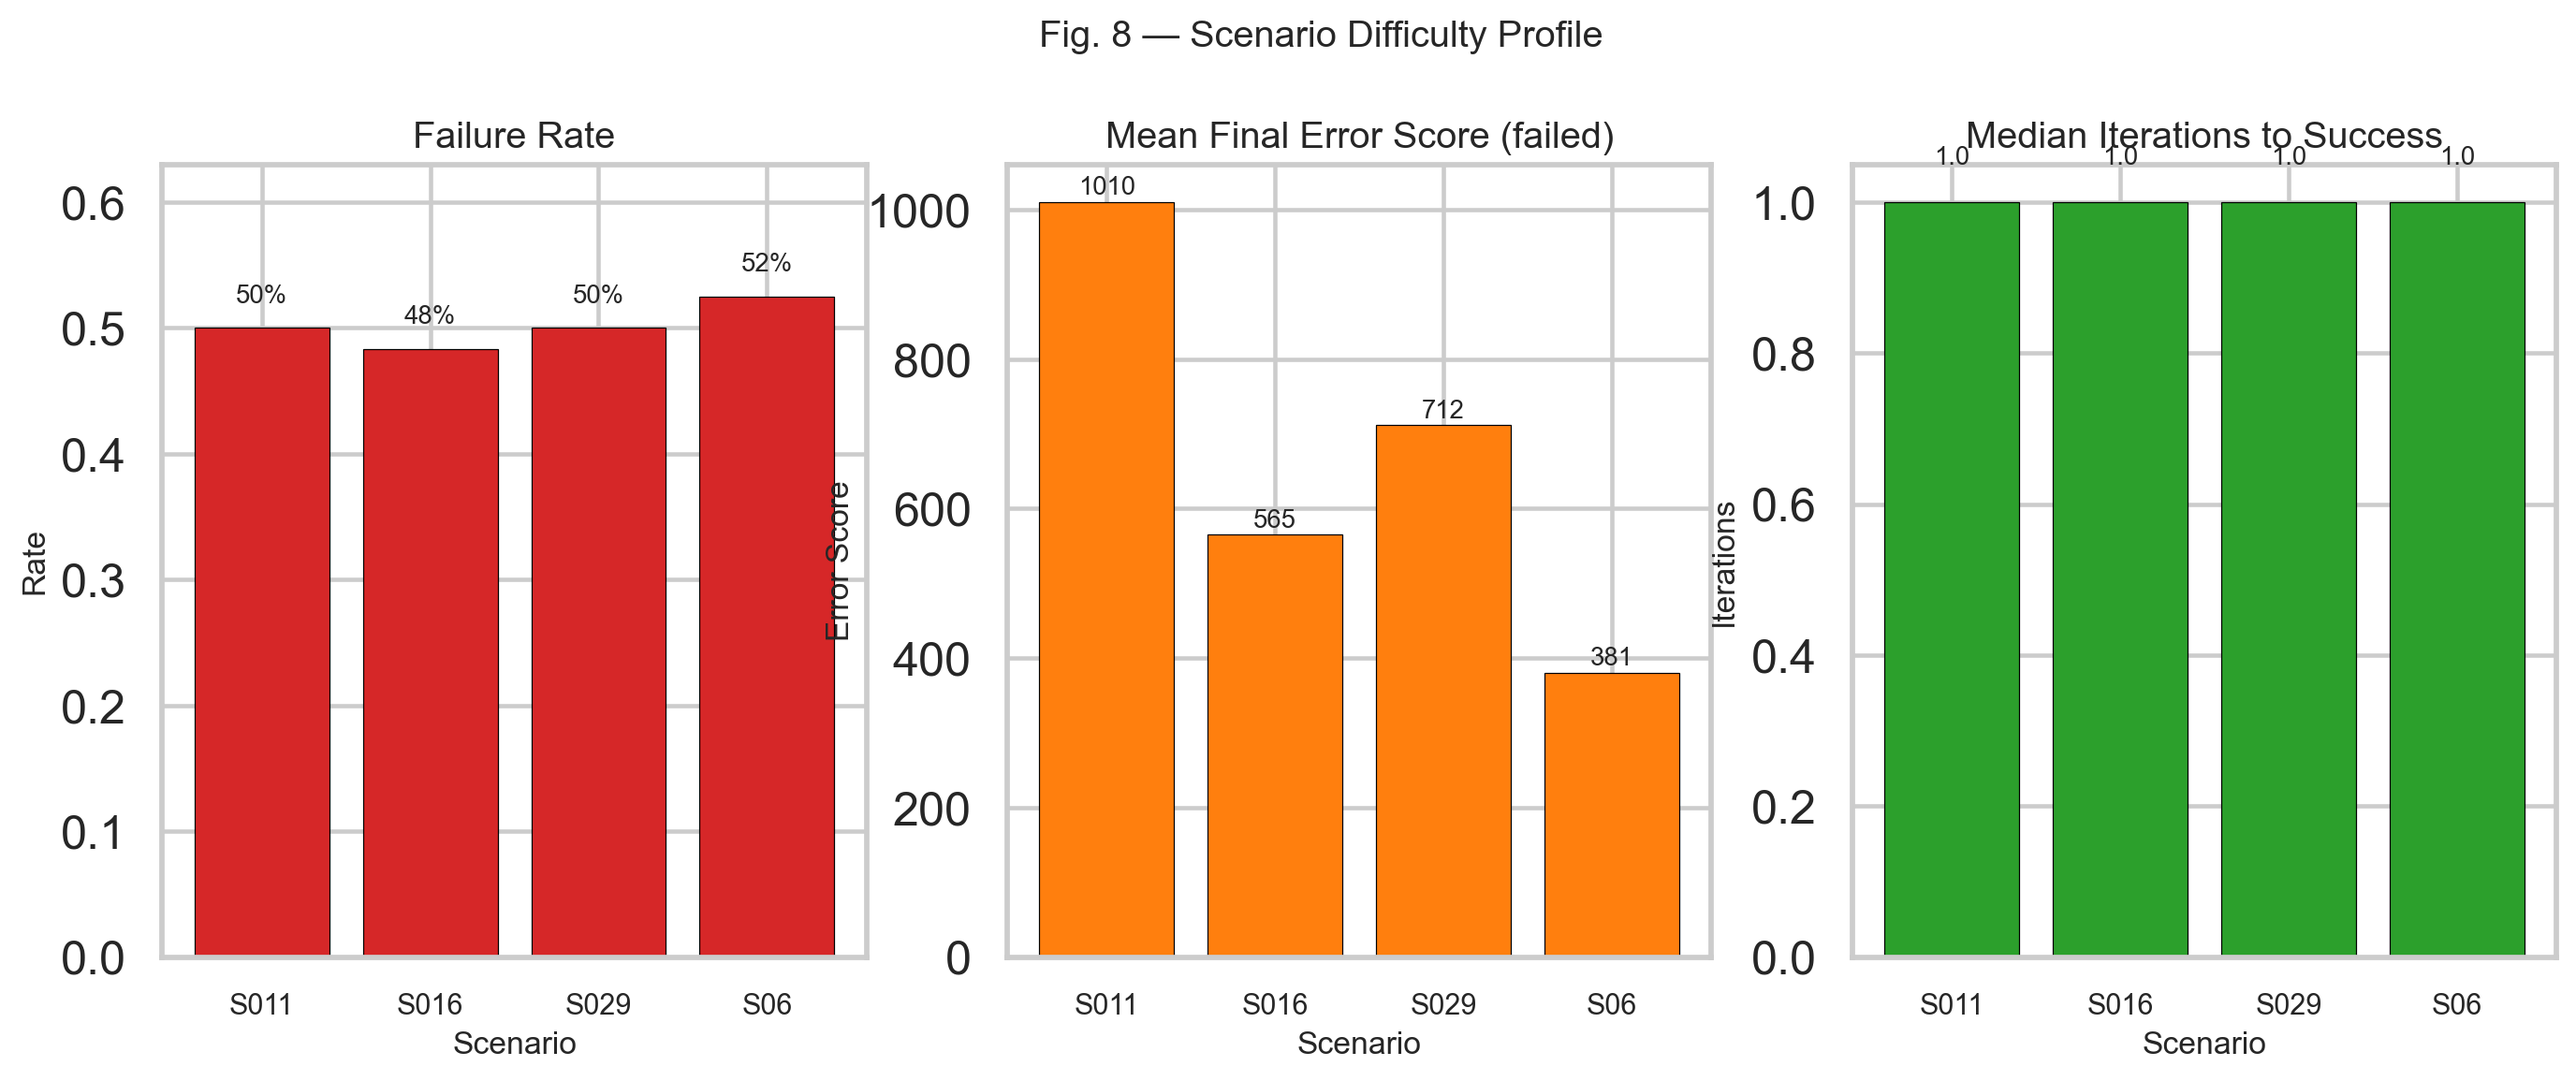
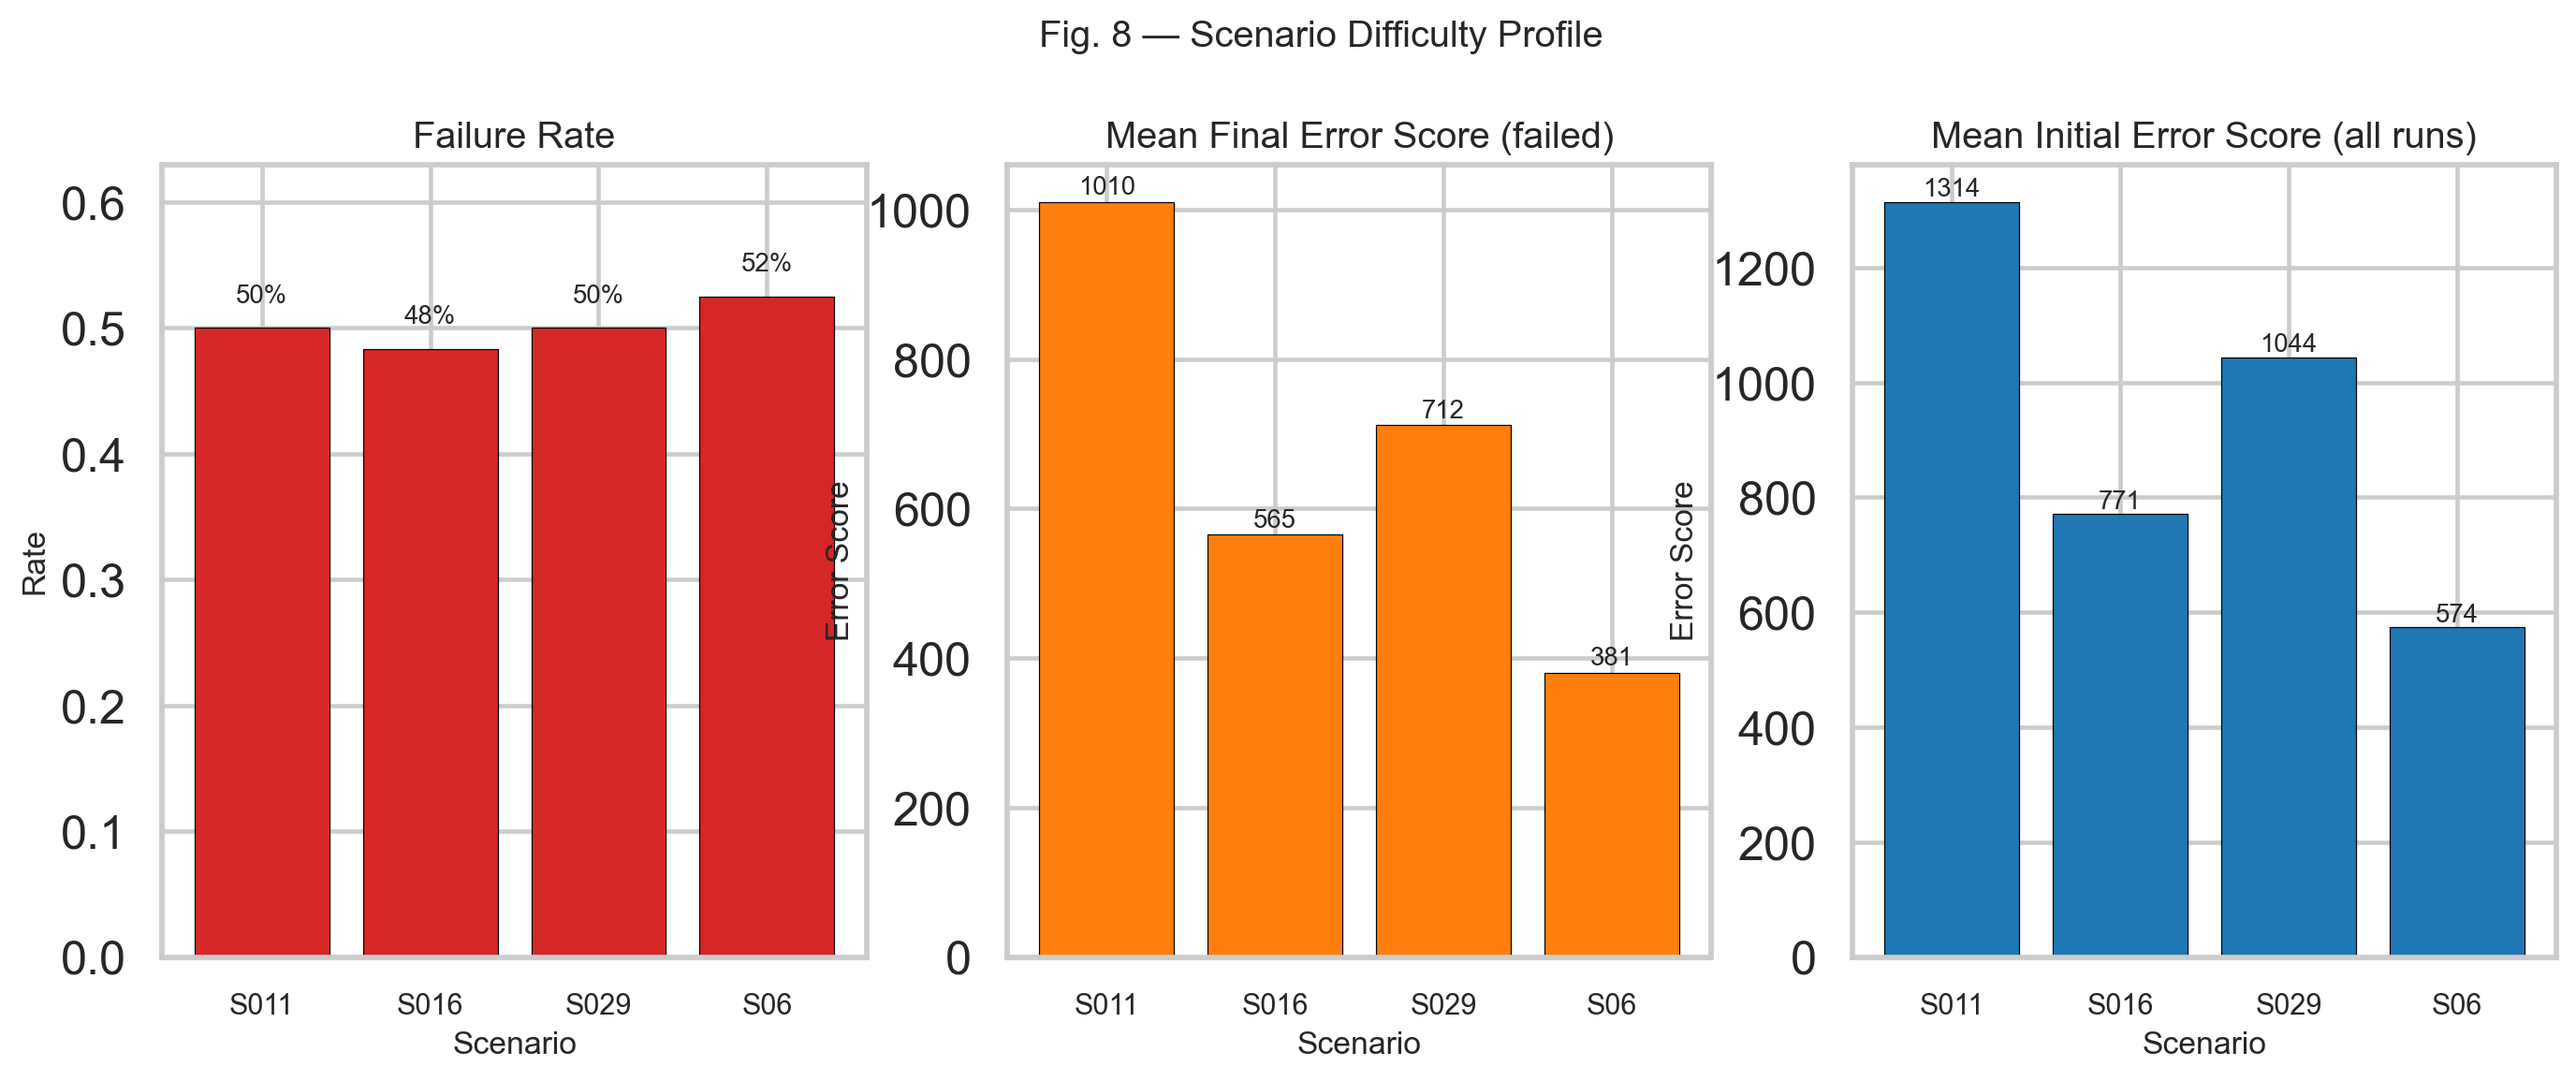
enh: iterations to success box plot

Changed region(s): [[0.625, 0.0935, 1.0, 0.9039]]

diff --git a/Utils/render_figures.py b/Utils/render_figures.py
@@ -404,35 +404,74 @@ def fig04_prompt_scenario_heatmap(run_df: pd.DataFrame, out_dir: Path):
 
 
 # ---------------------------------------------------------------------------
-# Figure 5 – Iteration-to-Success ECDF
+# Figure 5 – Iterations-to-Success (Box + Strip)
 # ---------------------------------------------------------------------------
 
 
-def fig05_ecdf_iterations(run_df: pd.DataFrame, out_dir: Path):
+def fig05_iterations_box_strip(run_df: pd.DataFrame, out_dir: Path):
+    """Box-plot of first-success iteration per config, overlaid with
+    individual data points (strip / swarm).  Median is marked with a
+    line; the annotation shows n_success / n_total.
+    """
     col = "derived_first_success_iteration"
     if col not in run_df.columns:
         return
 
+    cfgs = sorted(run_df["config_label"].dropna().unique(), key=_csort)
+    # Only include Pro-model configs (C5–C8) — Flash configs have too few
+    # successes for a meaningful iteration distribution.
+    cfgs = [c for c in cfgs if c in ("C5", "C6", "C7", "C8")]
+    succ = run_df[run_df["success_bool"]].copy()
+    if succ.empty:
+        return
+
     fig, ax = plt.subplots(figsize=(10, 5))
-    for cfg in sorted(run_df["config_label"].dropna().unique(), key=_csort):
-        sub = run_df[(run_df["config_label"] == cfg) & run_df["success_bool"]]
-        s = sub[col].dropna().sort_values()
+
+    # Collect data & colours per config
+    data, colours, labels = [], [], []
+    for cfg in cfgs:
+        s = succ.loc[succ["config_label"] == cfg, col].dropna()
         total = int((run_df["config_label"] == cfg).sum())
         if s.empty:
             continue
-        cdf = np.arange(1, len(s) + 1) / len(s)
-        ax.step(
-            s.values, cdf, where="post",
-            label=f"{cfg} ({len(s)}/{total})",
-            color=_PAL.get(cfg), linewidth=1.8,
+        data.append(s.values)
+        colours.append(_PAL.get(cfg, "#888888"))
+        labels.append(f"{cfg}\n({len(s)}/{total})")
+
+    positions = np.arange(len(data))
+
+    # Box-plots (no outlier markers — the strip shows them)
+    bp = ax.boxplot(
+        data, positions=positions, widths=0.45,
+        patch_artist=True, showfliers=False,
+        medianprops=dict(color="black", linewidth=2),
+        whiskerprops=dict(linewidth=1.2),
+        capprops=dict(linewidth=1.2),
+    )
+    for patch, c in zip(bp["boxes"], colours):
+        patch.set_facecolor(c)
+        patch.set_alpha(0.45)
+        patch.set_edgecolor("black")
+        patch.set_linewidth(0.8)
+
+    # Strip (jittered dots)
+    rng = np.random.default_rng(42)
+    for i, (vals, c) in enumerate(zip(data, colours)):
+        jitter = rng.uniform(-0.12, 0.12, size=len(vals))
+        ax.scatter(
+            positions[i] + jitter, vals,
+            color=c, edgecolors="black", linewidths=0.4,
+            s=30, alpha=0.75, zorder=3,
         )
 
-    ax.set_xlabel("Iteration of First Success")
-    ax.set_ylabel("Cumulative Probability")
-    ax.set_ylim(0, 1.05)
-    ax.set_title("Fig. 5 \u2014 Iteration-to-Success ECDF")
-    ax.legend(title="Config (succ/total)", fontsize=8, title_fontsize=9)
-    _save(fig, out_dir, "fig05_ecdf_iterations")
+    ax.set_xticks(positions)
+    ax.set_xticklabels(labels, fontsize=9)
+    ax.set_ylabel("Iteration of First Success")
+    ax.set_xlabel("Configuration (success / total)")
+    ax.set_title("Fig. 5 \u2014 Iterations to Success (Pro-model Configs)")
+    ax.yaxis.set_major_locator(plt.MaxNLocator(integer=True))
+    ax.set_ylim(0.5, run_df[col].max() + 0.5 if run_df[col].notna().any() else 10.5)
+    _save(fig, out_dir, "fig05_iterations_box_strip")
 
 
 # ---------------------------------------------------------------------------
@@ -535,16 +574,13 @@ def fig08_scenario_difficulty(run_df: pd.DataFrame, out_dir: Path):
     sc_short = [s.replace("Scenario_", "S").replace(".txt", "") for s in scenarios]
     x = np.arange(len(scenarios))
 
-    fail_rate, mean_err, med_iter = [], [], []
+    fail_rate, mean_err, mean_init_err = [], [], []
     for sc in scenarios:
         sub = run_df[run_df["scenario"] == sc]
         fail_rate.append(1 - sub["success_bool"].mean())
         fs = sub[~sub["success_bool"]]
         mean_err.append(fs["derived_final_error_score"].mean() if len(fs) else 0)
-        ss = sub[sub["success_bool"]]
-        med_iter.append(
-            ss["derived_first_success_iteration"].median() if len(ss) else np.nan
-        )
+        mean_init_err.append(sub["derived_initial_error_score"].mean() if len(sub) else 0)
 
     fig, axes = plt.subplots(1, 3, figsize=(15, 5))
 
@@ -563,13 +599,12 @@ def fig08_scenario_difficulty(run_df: pd.DataFrame, out_dir: Path):
     axes[1].set_title("Mean Final Error Score (failed)")
     axes[1].set_ylabel("Error Score")
 
-    # Panel C – Median iterations to success
-    axes[2].bar(x, med_iter, color="#2ca02c", edgecolor="black", linewidth=0.4)
-    for xi, v in zip(x, med_iter):
-        if not np.isnan(v):
-            axes[2].text(xi, v + 0.05, f"{v:.1f}", ha="center", fontsize=9)
-    axes[2].set_title("Median Iterations to Success")
-    axes[2].set_ylabel("Iterations")
+    # Panel C – Mean initial error score (all runs)
+    axes[2].bar(x, mean_init_err, color="#1f77b4", edgecolor="black", linewidth=0.4)
+    for xi, v in zip(x, mean_init_err):
+        axes[2].text(xi, v + 10, f"{v:.0f}", ha="center", fontsize=9)
+    axes[2].set_title("Mean Initial Error Score (all runs)")
+    axes[2].set_ylabel("Error Score")
 
     for ax in axes:
         ax.set_xticks(x)
@@ -614,7 +649,7 @@ def main() -> int:
     fig02_main_effect_forest(run_df, out_dir)
     fig03_factor_interaction(run_df, out_dir)
     fig04_prompt_scenario_heatmap(run_df, out_dir)
-    fig05_ecdf_iterations(run_df, out_dir)
+    fig05_iterations_box_strip(run_df, out_dir)
     fig06_error_convergence(iter_df, out_dir)
     fig07_error_categories(last_df, out_dir)
     fig08_scenario_difficulty(run_df, out_dir)
